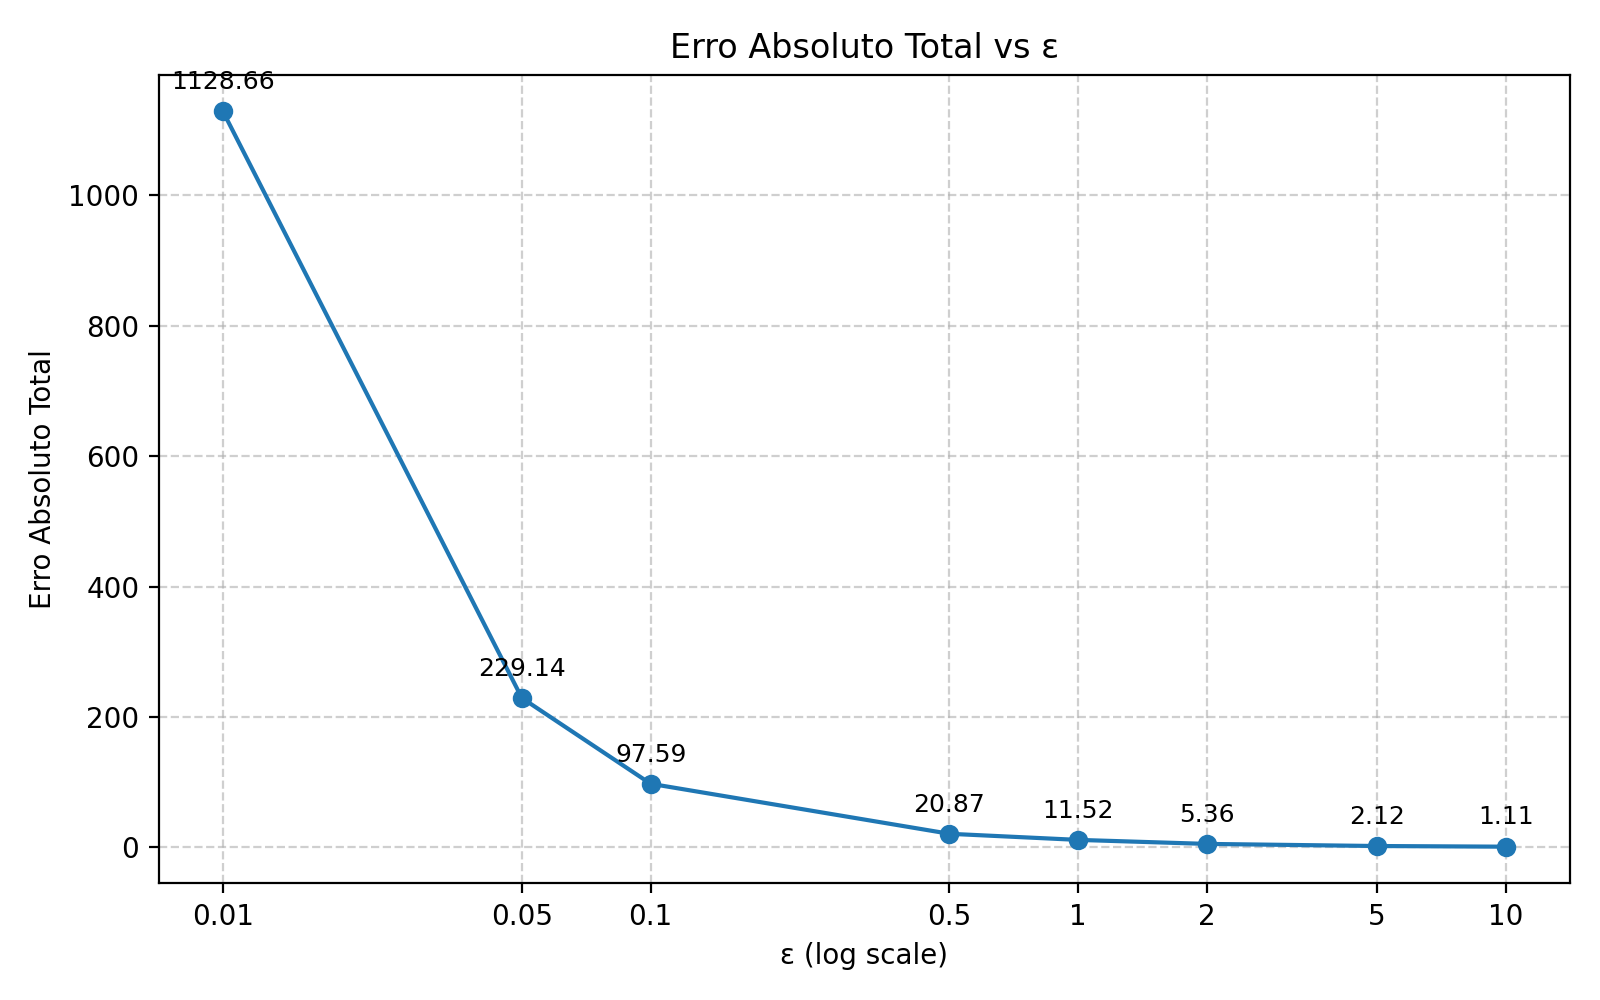
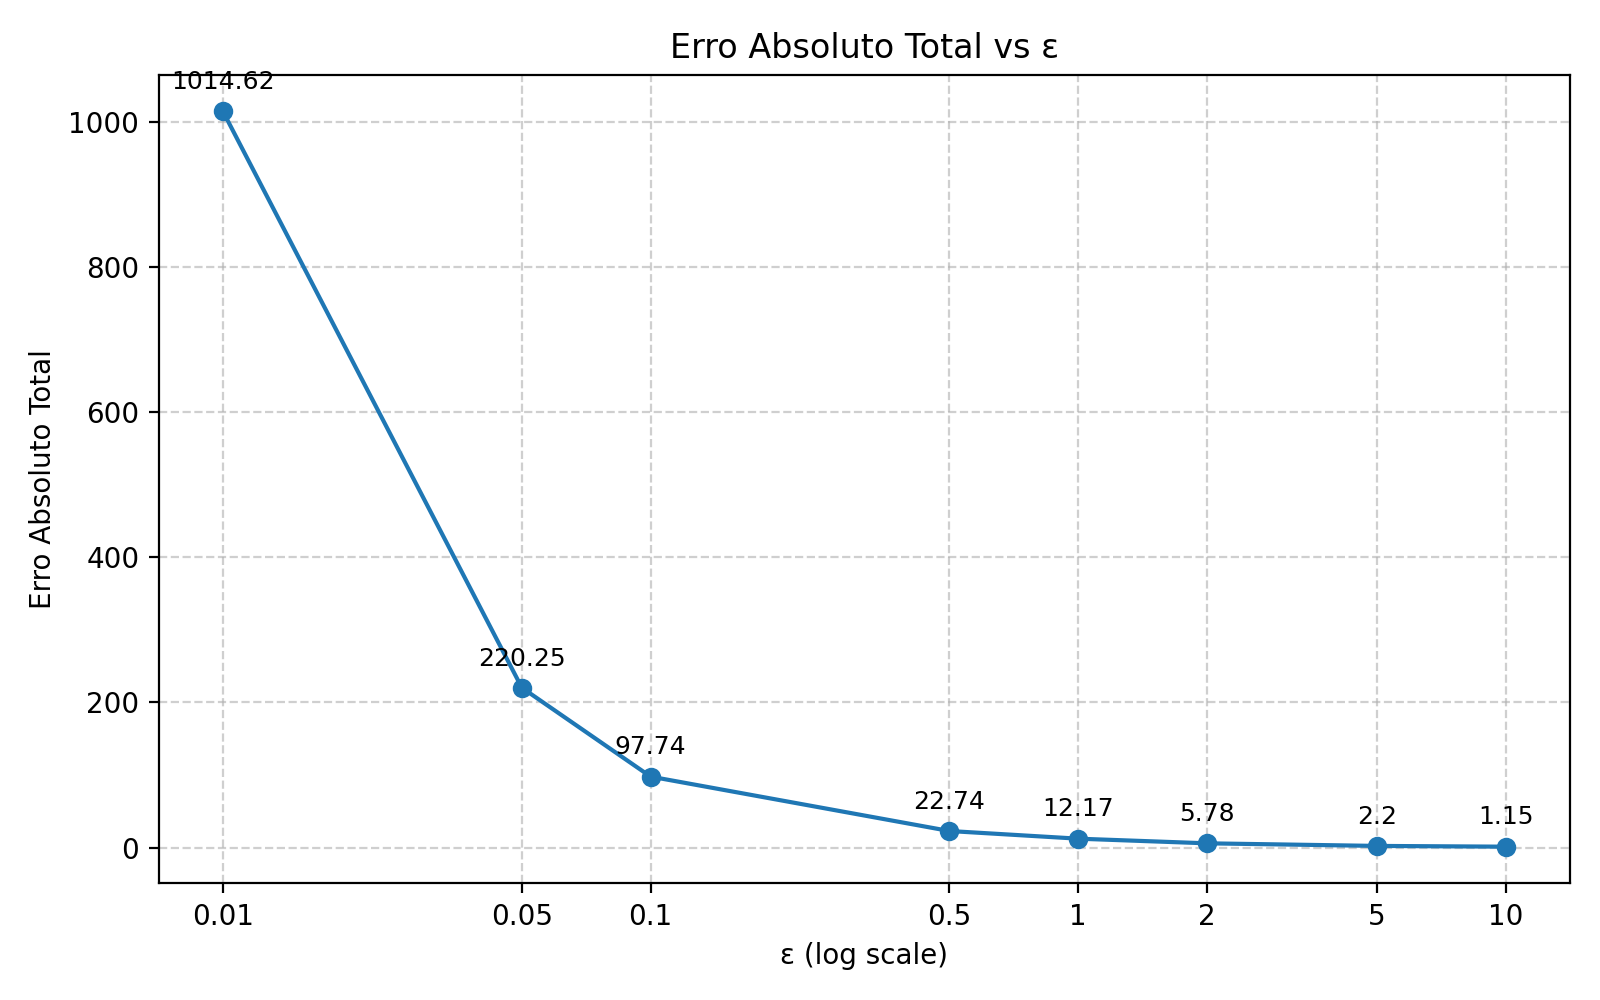
modificando formula de Laplace

diff --git a/Trab3 - Laplace/laplace.py b/Trab3 - Laplace/laplace.py
@@ -9,10 +9,14 @@ def laplace_mechanism(
 
     scale = sensibility / epsilon
 
-    noise = np.random.laplace(
-        loc=0,
-        scale=scale,
+    u = np.random.uniform(
+        low=-0.5,
+        high=0.5,
         size=len(data)
+    )
+
+    noise = -scale * np.sign(u) * np.log(
+        1 - 2 * np.abs(u)
     )
 
     noised_data = data + noise